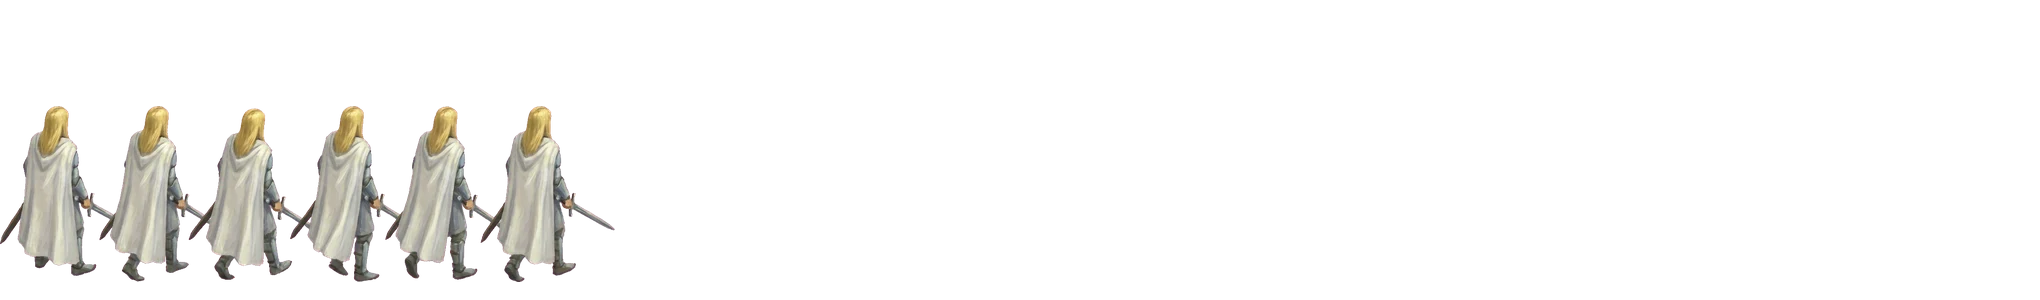
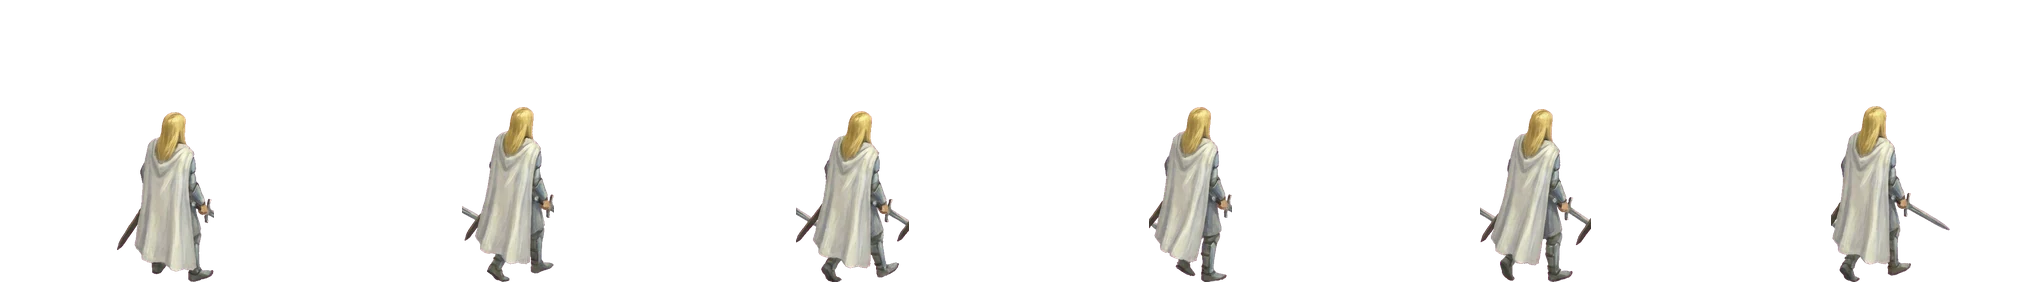
Fix hero frames that held several figures
Swords touching the next figure merged frames in the back sheets.

diff --git a/tools/build_art.py b/tools/build_art.py
@@ -34,7 +34,26 @@ def frames_of(name, count):
     alpha = hero_alpha(rgb)
     labels, found = ndimage.label(ndimage.binary_closing(alpha > 0.5, iterations=2))
     sizes = ndimage.sum(np.ones_like(labels), labels, range(1, found + 1))
-    keep = sorted(np.argsort(sizes)[-count:] + 1, key=lambda l: np.where(labels == l)[1].mean())
+    big = [index + 1 for index, size in enumerate(sizes) if size > 4000]
+
+    if len(big) != count:
+        # Swords touch the next figure, so cut the row into equal columns instead.
+        columns = np.where((alpha > 0.5).any(axis=0))[0]
+        edges = np.linspace(columns.min(), columns.max() + 1, count + 1).round().astype(int)
+        mass = (alpha > 0.5).sum(axis=0)
+        for index in range(1, count):
+            low, high = edges[index] - 60, edges[index] + 60
+            edges[index] = low + int(np.argmin(mass[low:high]))
+        labels = np.zeros_like(labels)
+        for index in range(count):
+            part = alpha[:, edges[index]:edges[index + 1]] > 0.5
+            pieces, _ = ndimage.label(part)
+            sizes = np.bincount(pieces.ravel())
+            sizes[0] = 0
+            labels[:, edges[index]:edges[index + 1]][pieces == sizes.argmax()] = index + 1
+        big = list(range(1, count + 1))
+
+    keep = sorted(big, key=lambda l: np.where(labels == l)[1].mean())
     frames = []
 
     for label in keep:
